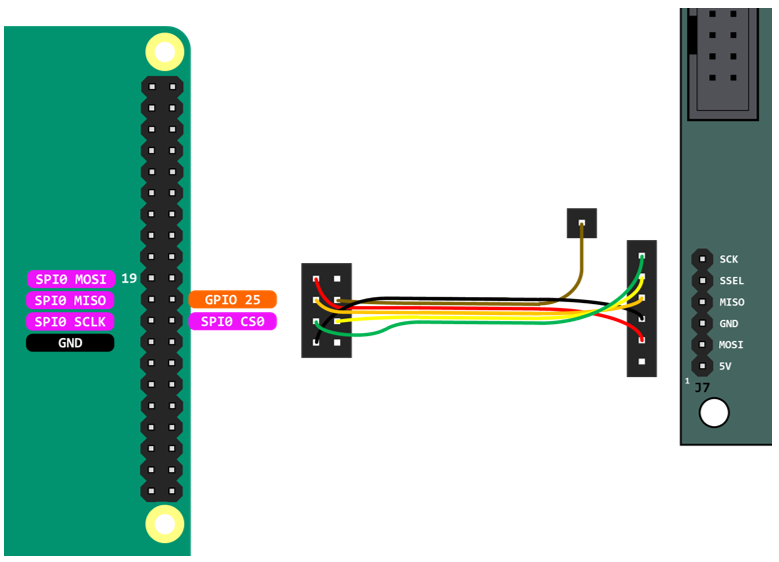
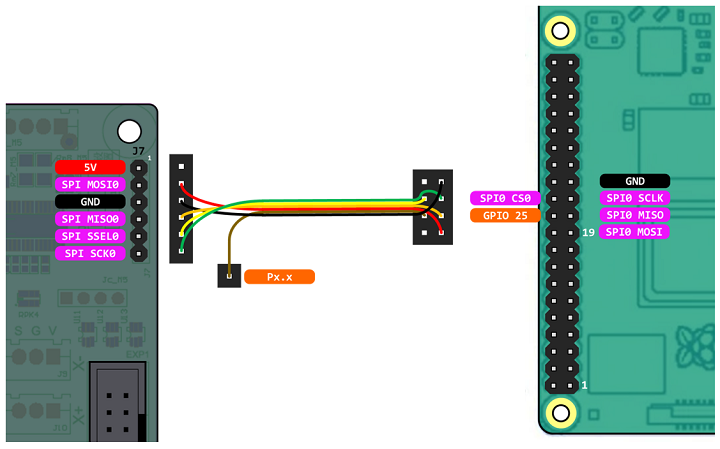
Updated images

diff --git a/docs/source/hardware/Mks-Sbase.rst b/docs/source/hardware/Mks-Sbase.rst
@@ -13,9 +13,9 @@ Wiring requires the following components:
 * 8 way (2x4) Dupont connector
 * 1 way Dupont connector
 
-.. image:: ../_static/MksSbase-wiring-diag3.png
+.. image:: ../_static/MksSbase-wiring-diag.png
 
-.. image:: ../_static/MksSbase-wiring-diag4.png
+.. image:: ../_static/MksSbase-wiring-diag2.png
 
 Images
 ------
